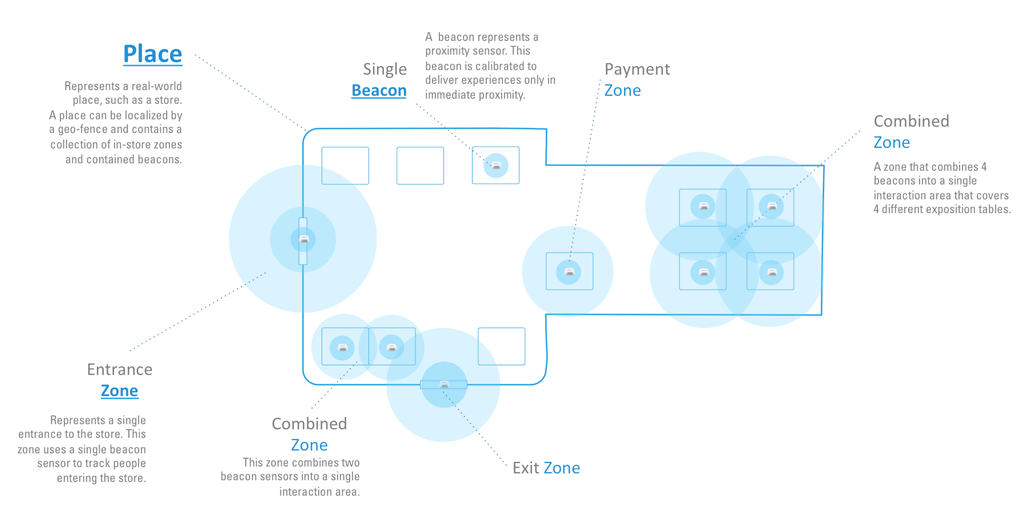
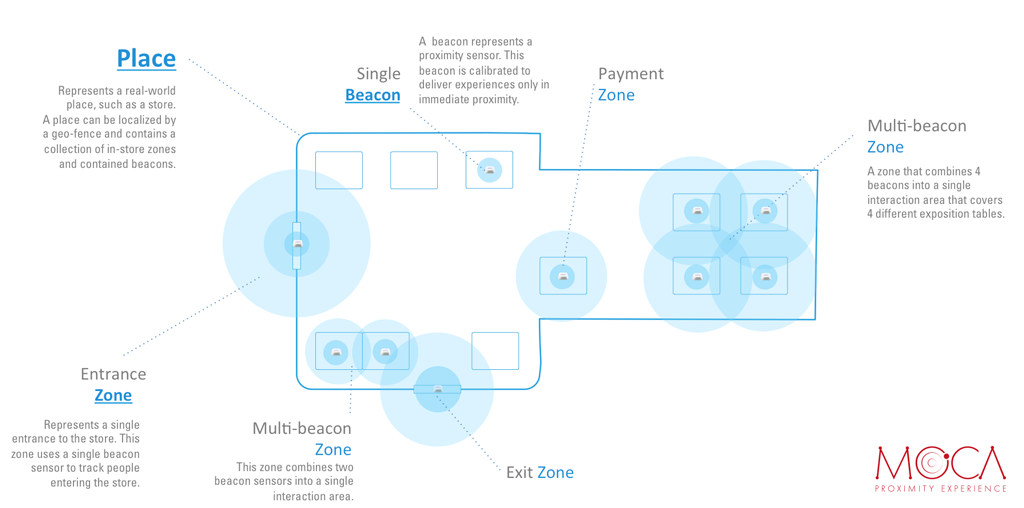
update docs

diff --git a/README.md b/README.md
@@ -11,13 +11,8 @@ The `MOCA.framework` is a drop-in, native library that provides a simple way to 
 into your iOS applications. This framework is provided as a ZIP archive and contains two pre-compiled universal libraries: an armv7/armv7s/arm64/i386/x86_64 version (``MOCA-x.y.z.framework``), which includes 32 and 64-bit binaries and can be used with
 iOS 7.0+.
 
-<p align="center">
-![MOCA SDK Framework Architecture](/Assets/images/sdk.png)
-</p>
-
-<p align="center">
 ![MOCA SDK Framework Architecture](/Assets/images/moca-proximity.png)
-</p>
+
 
 Who is MOCA SDK for?
 --------------------
